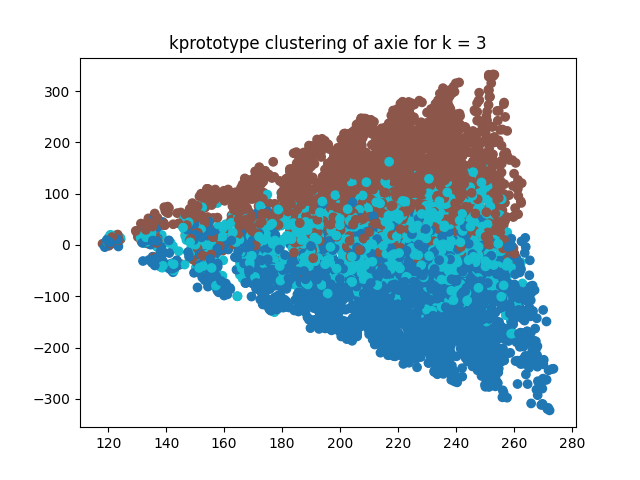
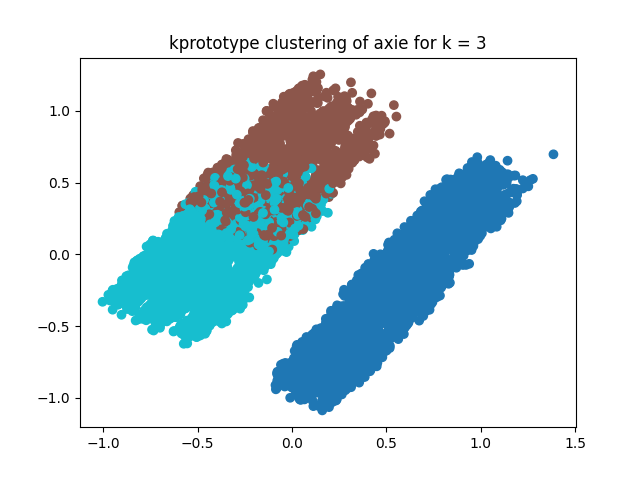
Fix file saving and opening and Implement Axie rarity clustering

diff --git a/plotting_files/cluster_analysis.py b/plotting_files/cluster_analysis.py
@@ -5,27 +5,56 @@ from distance_metrics import normalise_attributes, get_attribute_data
 from rarity_finder import replace_rarity
 from light_famd import FAMD
 from kmodes.kprototypes import KPrototypes
+from sklearn.decomposition import PCA
+from sklearn.cluster import KMeans
 
-def plot_famd_explained(explained, series, d):
+def plot_famd_explained(explained, series, d, rarity = False):
     plt.clf()
-    plt.title(f'Proportion of explained variance of factors of {series} for d = {d}')
+
+    if rarity:
+        title = f'Proportion of explained variance of factors of {series} for d = {d} (PCA)'
+        save_path = f'../graphs/pca_explained_{series}_d{d}_rarity.png'
+    
+    else:
+        title = f'Proportion of explained variance of factors of {series} for d = {d}'
+        save_path = f'../graphs/famd_explained_{series}_d{d}.png'
+
+    plt.title(title)
     plt.ylabel('Proportion of explained variance')
     plt.xlabel('d')
     plt.xticks(range(1,d+1))
     plt.bar(range(1,d+1), explained / explained.sum())
-    plt.savefig(f'graphs/famd_explained_{series}_d{d}.png')
+    plt.savefig(save_path)
 
-def plot_famd_cluster(X_famd, series, d):
+def plot_famd_cluster(X_famd, series, d, rarity = False):
     plt.clf()
-    plt.title(f'FAMD clustering of {series} for d = {d}')
+    
+    if rarity:
+        title = f'PCA clustering of {series} for d = {d}'
+        save_path = f'../graphs/pca_{series}_d{d}_rarity.png'
+    
+    else:
+        title = f'FAMD clustering of {series} for d = {d}'
+        save_path = f'../graphs/pca_{series}_d{d}.png'
+
+    plt.title(title)
     plt.scatter(x=X_famd[:,0], y=X_famd[:,1], cmap='tab10')
-    plt.savefig(f'graphs/famd_{series}_d{d}.png')
+    plt.savefig(save_path)
 
-def plot_kprototype_cluster(X_famd, labels, series, k):
+def plot_kprototype_cluster(X_famd, labels, series, k, rarity = False):
     plt.clf()
-    plt.title(f'kprototype clustering of {series} for k = {k}')
+
+    if rarity:
+        title = f'kprototype clustering of {series} for k = {k} (Rarity)'
+        save_path = f'../graphs/kprototype_{series}_k{k}_rarity.png'
+    
+    else:
+        title = f'kprototype clustering of {series} for k = {k}'
+        save_path = f'../graphs/kprototype_{series}_k{k}.png'
+
+    plt.title(title)
     plt.scatter(x=X_famd[:,0], y=X_famd[:,1], c=labels, cmap='tab10')
-    plt.savefig(f'graphs/kprototype_{series}_k{k}.png')
+    plt.savefig(save_path)
 
 
 def main(argv):
@@ -33,25 +62,44 @@ def main(argv):
     clustering_type = argv[1]
     n_val = int(argv[2])
     
-    data = get_attribute_data(f"attribute_files/{series}_attributes.csv")
+    data = get_attribute_data(f"../attribute_files/{series}_attributes.csv")
     norm_data = normalise_attributes(data)
     norm_data.drop('id', axis=1, inplace=True)
+
     if clustering_type == "famd":
         famd = FAMD(n_components=n_val)
+        print(norm_data)
         famd.fit(norm_data)
         explained_var = famd.explained_variance_
-        explained_var_ratio = famd.explained_variance_ratio_
         norm_data_famd = famd.transform(norm_data)
-        if not exists(f'graphs/famd_explained_{series}_d{n_val}.png'): plot_famd_explained(explained_var, series, n_val)
-        if not exists(f'graphs/famd_{series}_d{n_val}.png'): plot_famd_cluster(norm_data_famd, series, n_val)
-    if clustering_type == "kprotocol":
+        if not exists(f'../graphs/famd_explained_{series}_d{n_val}.png'): plot_famd_explained(explained_var, series, n_val)
+        if not exists(f'../graphs/famd_{series}_d{n_val}.png'): plot_famd_cluster(norm_data_famd, series, n_val)
+
+    if clustering_type == "pca-rarity":
+        rarity_data = replace_rarity(data)
+        norm_rarity_data = normalise_attributes(rarity_data)
+        pca = PCA(n_components=n_val)
+        norm_data_pca = pca.fit_transform(norm_rarity_data)
+        explained_var = pca.explained_variance_ratio_
+        if not exists(f'../graphs/pca_explained_{series}_d{n_val}_rarity.png'): plot_famd_explained(explained_var, series, n_val, rarity = True)
+        if not exists(f'../graphs/pca_{series}_d{n_val}_rarity.png'): plot_famd_cluster(norm_data_pca, series, n_val, rarity = True)
+
+    if clustering_type == "kprototype":
         categorical_col = norm_data.select_dtypes(include='object').columns.tolist()
         categorical_col_ind = norm_data.columns.get_indexer(categorical_col).tolist()
         clusters = KPrototypes(n_clusters = n_val).fit_predict(norm_data, categorical=categorical_col_ind)
         famd = FAMD(n_components=2)
         famd.fit(norm_data)
         norm_data_famd = famd.transform(norm_data)
-        if not exists(f'graphs/kprotocol_{series}_k{n_val}.png'): plot_kprototype_cluster(norm_data_famd, clusters, series, n_val)
+        if not exists(f'../graphs/kprototype_{series}_k{n_val}.png'): plot_kprototype_cluster(norm_data_famd, clusters, series, n_val)
+
+    if clustering_type == "kprototype-rarity":
+        rarity_data = replace_rarity(data)
+        norm_rarity_data = normalise_attributes(rarity_data)
+        clusters = KMeans(n_clusters = n_val).fit_predict(norm_rarity_data)
+        pca = PCA(n_components=n_val)
+        norm_data_pca = pca.fit_transform(norm_rarity_data)
+        if not exists(f'../graphs/kprototype_{series}_k{n_val}_rarity.png'): plot_kprototype_cluster(norm_data_pca, clusters, series, n_val)
         
 
 if __name__ == "__main__":
